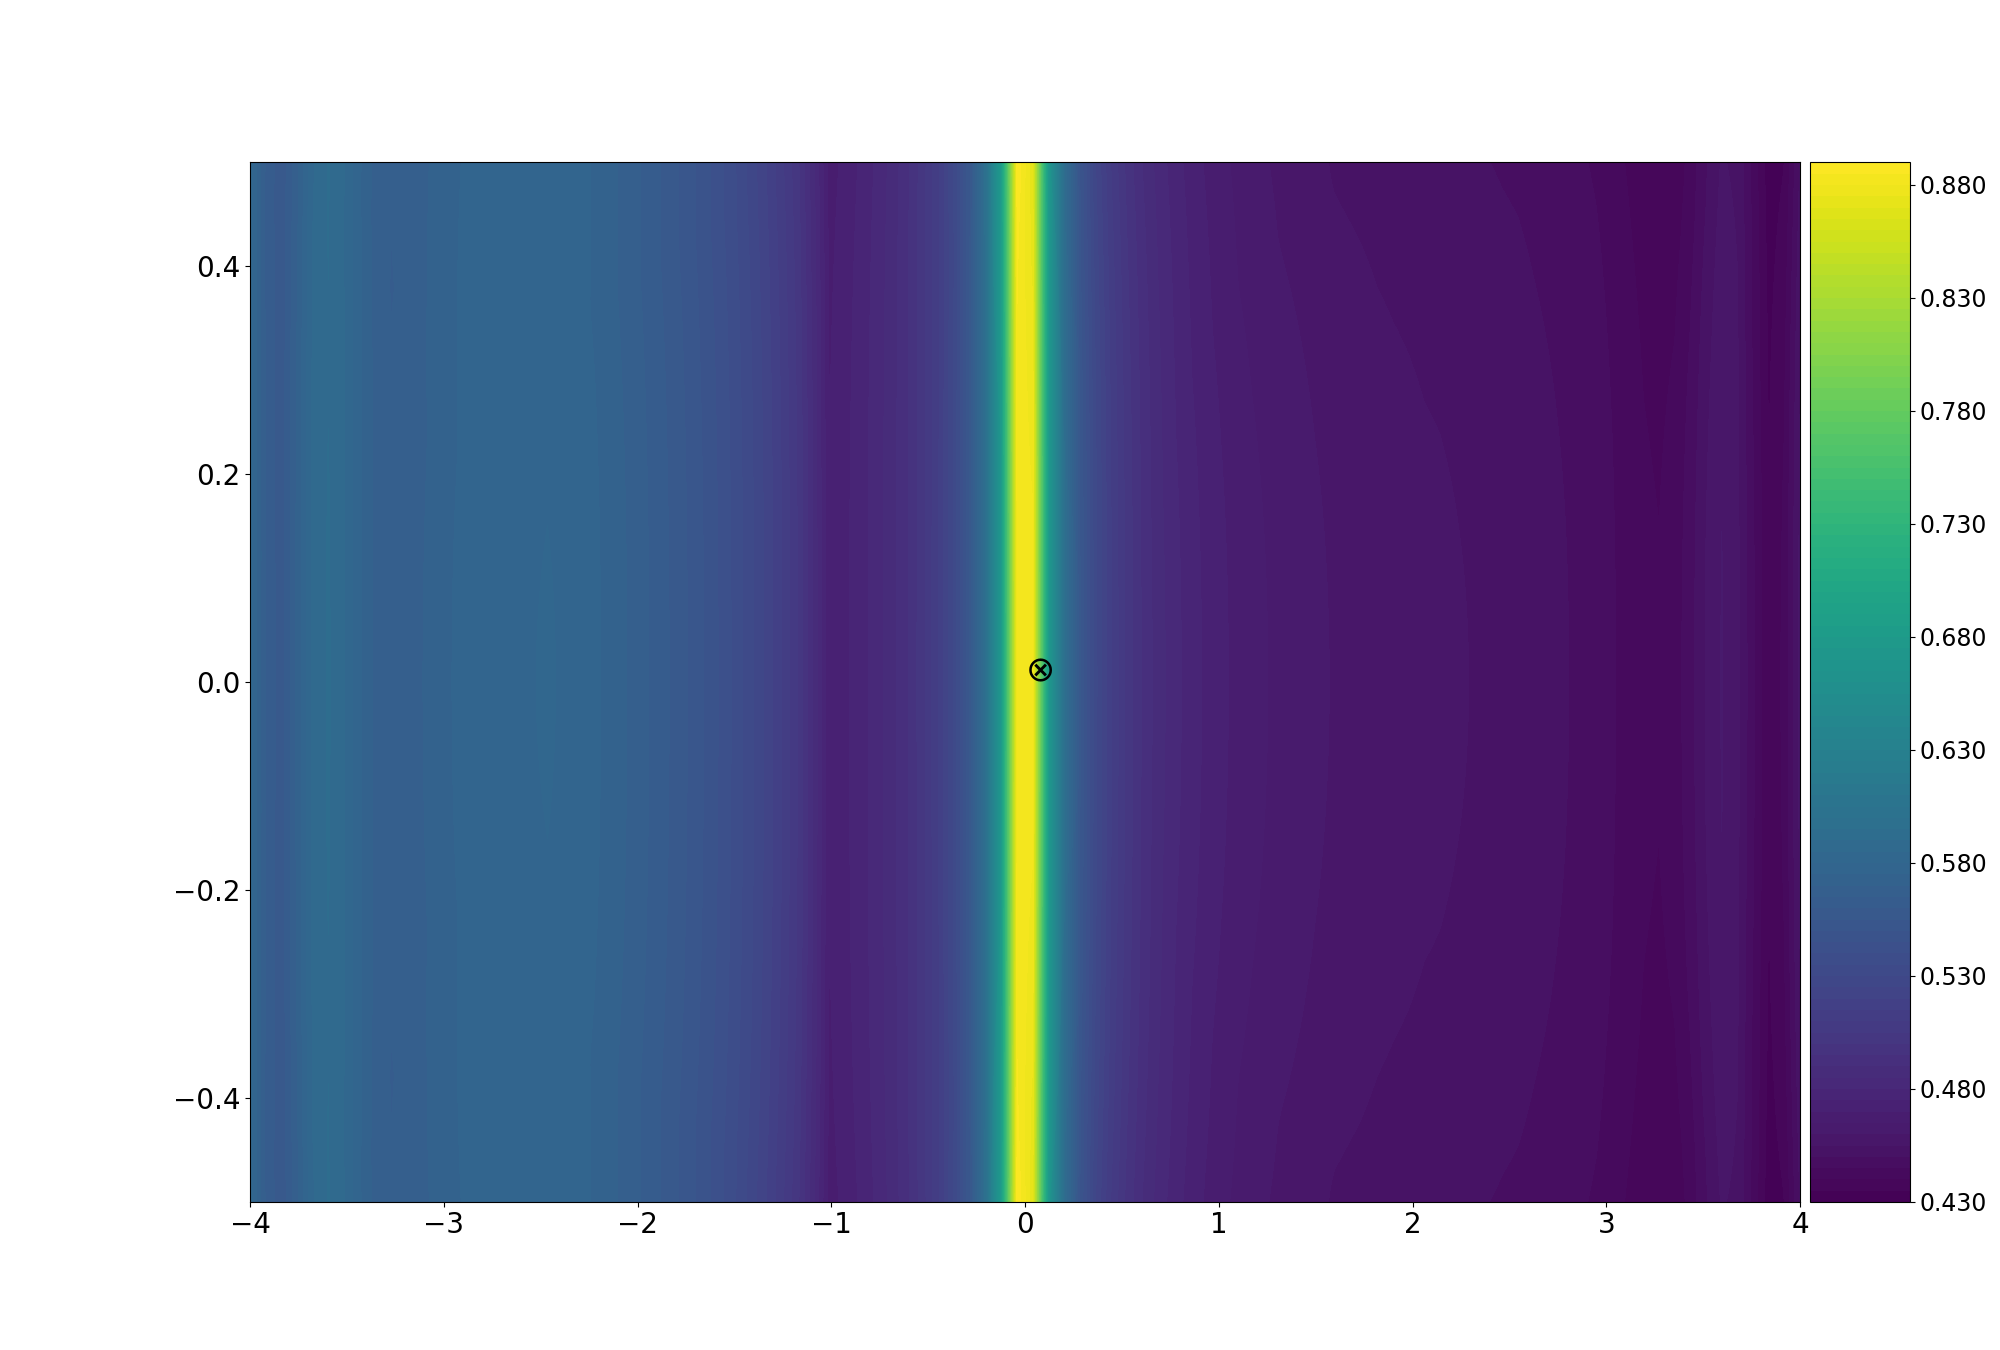
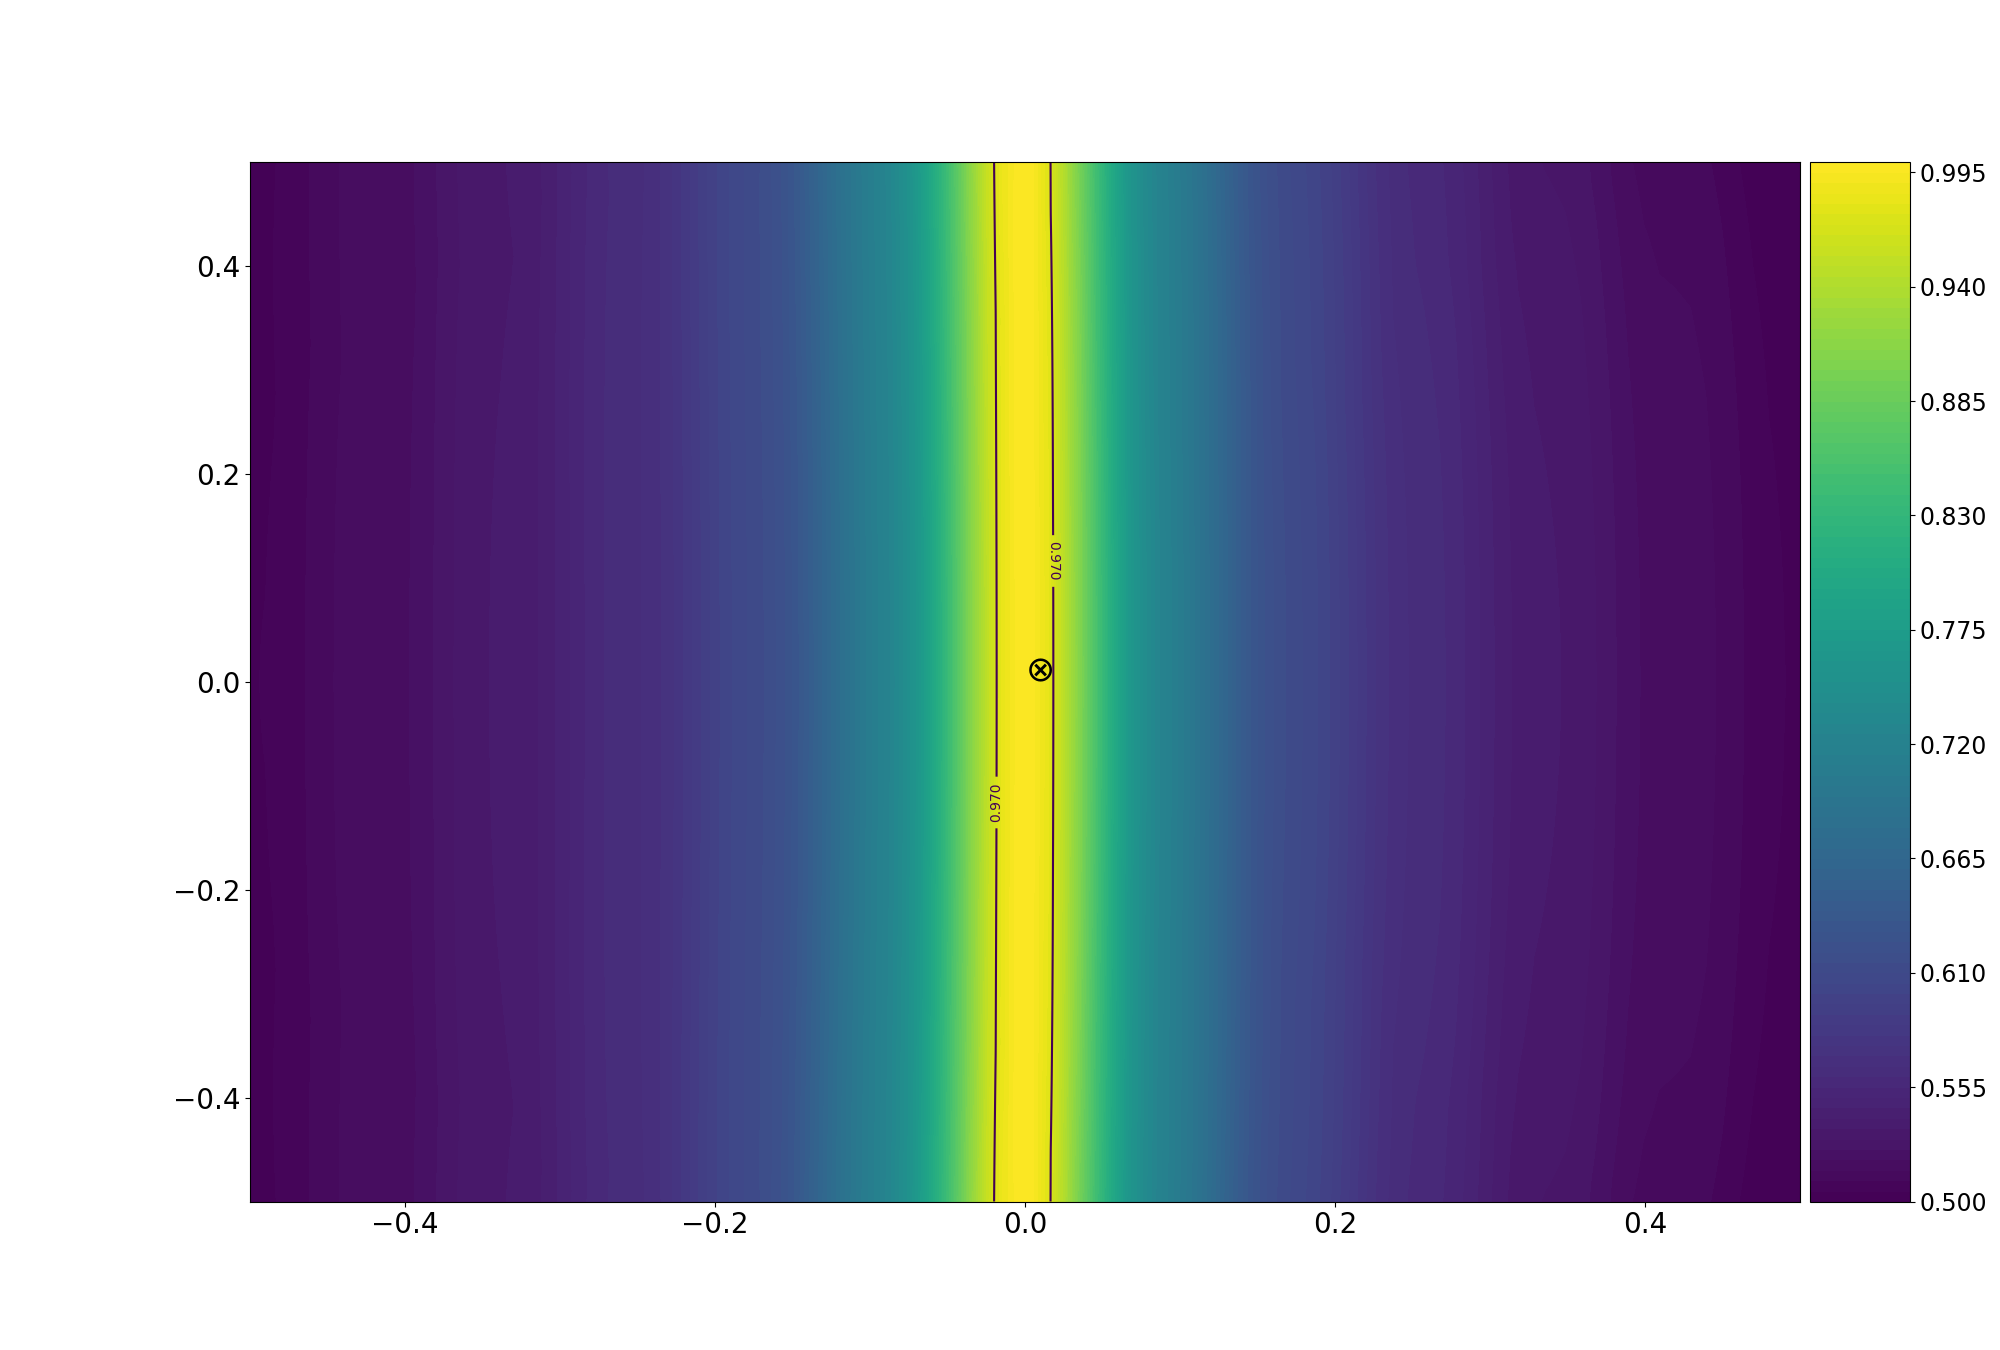
Inspiral Spin Plots

diff --git a/nonGR_m1_match.py b/nonGR_m1_match.py
@@ -1,8 +1,7 @@
 #!/usr/bin/env python
 
-#import matplotlib
-
-#matplotlib.use('Agg')
+import matplotlib
+matplotlib.use('Agg')
 
 import numpy as np
 import pycbc
@@ -91,12 +90,13 @@ p['delta_t'] = 1./4096
 p['f_lower'] = 20
 p['approximant'] = 'IMRPhenomPv2'
 
-#nGR = ['dchi0','dchi1','dchi2','dchi3','dchi4','dchi6',
-nGR = ['dalpha2','dalpha3','dalpha4']#,'dbeta2','dbeta3'] # hashed out to test one param
+#nGR = ['dchi0','dchi1','dchi2','dchi3','dchi4','dchi6']
+#nGR = ['dalpha2','dalpha3','dalpha4']#,
+nGR = ['dbeta2','dbeta3'] # hashed out to test one param
 
 #nGR = ['dchi0']
 
-ngrparam = np.linspace(-4.0, 4.0, 100) # range of nGR params
+ngrparam = np.linspace(-0.5, 0.5, 100) # range of nGR params
 #mass1 = np.linspace(15, 45, 100) # Range of masses
 
 spin1 = np.linspace(-0.5, 0.5, 100)
@@ -175,7 +175,7 @@ for nonGR in nGR:
 	ax1.yaxis.set_tick_params(labelsize=20)
 	ax1.clabel(con, color = 'k')
 	plt.savefig('/home/c1320229/non-GR/%s'%nonGR + 'PRECESSING.png')
-	plt.show()
+#	plt.show()
 	
 	'''
 	fig2 = plt.figure('%s'%nonGR + 'm_chirp', figsize = (20.0, 13.5))

diff --git a/GR_nGR_match.py b/GR_nGR_match.py
@@ -67,9 +67,9 @@ M1 = np.linspace(5, 35, 1000) # The mass array
 pmatch = np.zeros(1000) # Non-GR match array
 qmatch = np.zeros(1000) # GR match array
 
-val = np.linspace(-0.5, 0.5, 20)
+#val = np.linspace(-0.5, 0.5, 20)
 
-#val = np.array([-0.2])
+val = np.array([-0.131])
 
 for ii in val:
 	
@@ -110,6 +110,11 @@ for ii in val:
 	x_int = m_chirp[idx]
 	y_int = pmatch[idx]
 
+	a = np.where(pmatch == pmatch.max())
+	b = m_chirp[a]
+
+	print max(pmatch), b
+	'''
 		
 	fig = plt.figure(figsize  = (10.0, 6.25))
 	ax = fig.add_subplot(1,1,1)
@@ -153,3 +158,4 @@ for ii in val:
 	plt.savefig('/home/c1320229/non-GR/intercept_dchi0_' + '%s'%ii + '.png')
 #	plt.show()
 #	plt.close()
+	'''
